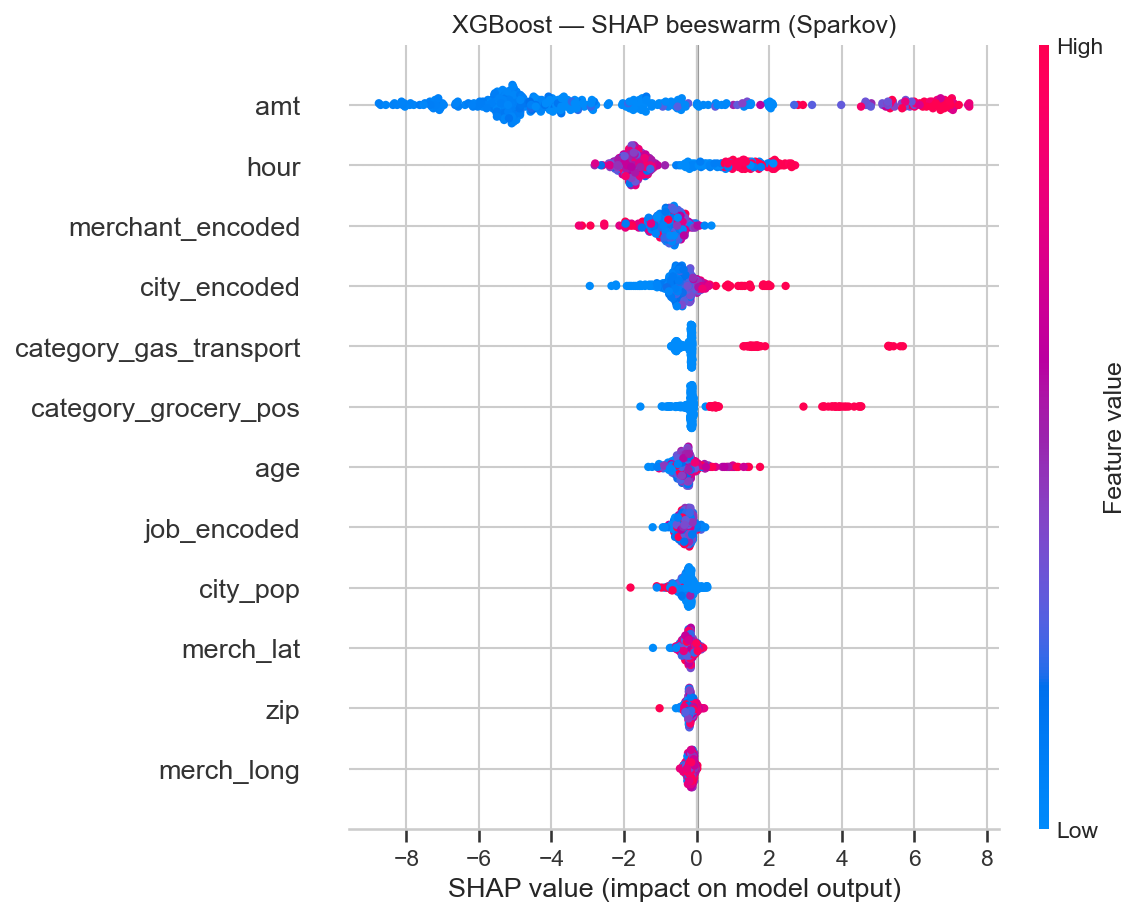
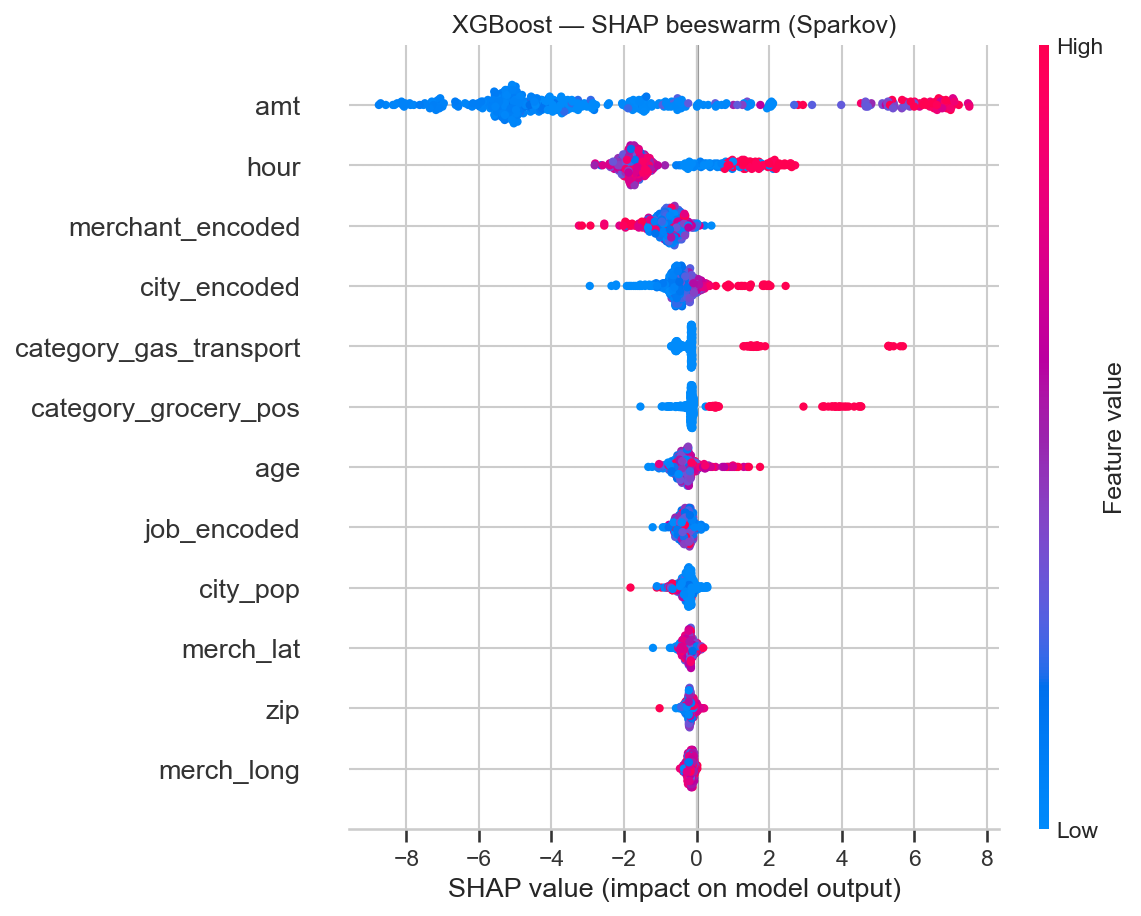
feat: use DeepExplainer for ANN SHAP instead of KernelExplainer
Measured on a trained ANN (250 eval rows x 30 features): Kernel is
~5.6x slower and non-deterministic -- two runs on the same model agree
only at Spearman 0.85, which would artificially depress the ANN's CIES
score since CIES measures exactly rank dispersion. DeepExplainer is
deterministic, exactly additive on the logit (error 0.0), agrees with
Kernel at 0.87 (about Kernel's own self-agreement), and explains
log-odds like LR/XGBoost.

_compute_shap_deep previously never squeezed shap>=0.4x's
(n, features, 1) output and would have broken the rank/metric code
like the RandomForest 3D case; now normalized to 2D, forced to eval
mode, and falls back to KernelExplainer if DeepExplainer errors.
Regression test runs in a subprocess (torch + xgboost in one process
risks the documented OpenMP segfault).

diff --git a/reports/pipeline_diagram.html b/reports/pipeline_diagram.html
@@ -140,7 +140,7 @@
 
       <!-- SHAP -->
       <rect x="180" y="512" width="820" height="64" rx="10" fill="var(--shared-bg)" stroke="var(--shared-line)" stroke-width="2"/>
-      <text x="590" y="537" text-anchor="middle" font-size="12.5" font-weight="600" fill="var(--fg)">SHAP — Linear (LR) · Tree (RF, XGBoost, CatBoost) · Kernel (ANN, xấp xỉ)</text>
+      <text x="590" y="537" text-anchor="middle" font-size="12.5" font-weight="600" fill="var(--fg)">SHAP — Linear (LR) · Tree (RF, XGBoost, CatBoost) · Deep (ANN, xấp xỉ, tất định)</text>
       <text x="590" y="556" text-anchor="middle" font-size="10.5" fill="var(--warn)">Tree: đã fix bug — RandomForest trả ndarray 3D (n,f,class) trên shap 0.52, không phải list</text>
 
       <!-- diverge -->

diff --git a/src/explainability/shap_utils.py b/src/explainability/shap_utils.py
@@ -6,7 +6,7 @@ Mapping explainer bắt buộc theo model (spec mục 6.1):
     - Random Forest       → shap.TreeExplainer (exact)
     - XGBoost             → shap.TreeExplainer (exact)
     - CatBoost            → shap.TreeExplainer (exact)
-    - ANN                 → shap.KernelExplainer hoặc shap.DeepExplainer (xấp xỉ)
+    - ANN                 → shap.DeepExplainer (xấp xỉ, tất định); KernelExplainer làm fallback
 
 ANN dùng explainer xấp xỉ — ghi log riêng, không so sánh thô với TreeSHAP.
 """
@@ -25,7 +25,11 @@ EXPLAINER_MAP = {
     "random_forest": "tree",
     "xgboost": "tree",
     "catboost": "tree",
-    "ann": "kernel",  # Hoặc "deep" — mặc định kernel cho safety
+    # DeepExplainer thay KernelExplainer: đo trên ANN thật, Kernel chạy lặp 2 lần cùng
+    # model chỉ khớp nhau Spearman ~0.85 (nhiễu lấy mẫu riêng — sẽ làm điểm CIES của ANN
+    # thấp GIẢ TẠO vì CIES đo đúng độ dao động thứ hạng), chậm hơn ~5x, còn Deep
+    # tất định, cộng dồn đúng (sai số 0) và cùng đơn vị log-odds với LR/XGBoost.
+    "ann": "deep",
 }
 
 
@@ -180,25 +184,38 @@ def _compute_shap_deep(
     X_eval: np.ndarray,
     X_background: Optional[np.ndarray],
 ) -> np.ndarray:
-    """SHAP cho ANN — DeepExplainer (thay thế cho KernelExplainer nếu cần)."""
+    """
+    SHAP cho ANN — DeepExplainer (xấp xỉ dựa trên DeepLIFT, tất định).
+
+    Giải thích logit (đầu ra trước sigmoid) — cùng thang log-odds với LR/XGBoost.
+    Nếu DeepExplainer lỗi (vd. version shap/torch không hỗ trợ 1 layer), tự lùi về
+    KernelExplainer và ghi log cảnh báo thay vì làm hỏng cả run CIES.
+    """
     import torch
 
-    if isinstance(model, dict) and "model" in model:
-        ann = model["model"]
-        device = model.get("device", torch.device("cpu"))
-    else:
+    if not (isinstance(model, dict) and "model" in model):
         raise ValueError("ANN model phải là dict từ build_model()")
+    ann = model["model"]
+    device = model.get("device", torch.device("cpu"))
+    ann.eval()  # BatchNorm/Dropout phải ở chế độ eval, nếu không SHAP không tất định
 
     if X_background is None:
         X_background = X_eval[:100]
 
-    X_bg_tensor = torch.FloatTensor(X_background).to(device)
-    X_eval_tensor = torch.FloatTensor(X_eval).to(device)
+    try:
+        X_bg_tensor = torch.FloatTensor(np.asarray(X_background)).to(device)
+        X_eval_tensor = torch.FloatTensor(np.asarray(X_eval)).to(device)
+        explainer = shap.DeepExplainer(ann, X_bg_tensor)
+        shap_values = explainer.shap_values(X_eval_tensor)
+    except Exception as e:  # noqa: BLE001
+        logger.warning(f"DeepExplainer lỗi ({type(e).__name__}: {e}) — lùi về KernelExplainer.")
+        return _compute_shap_kernel(model, X_eval, X_background)
 
-    explainer = shap.DeepExplainer(ann, X_bg_tensor)
-    shap_values = explainer.shap_values(X_eval_tensor)
-
+    # shap>=0.4x trả ndarray (n_samples, n_features, n_outputs=1) thay vì list;
+    # bản cũ trả list [array]. Luôn quy về (n_samples, n_features).
     if isinstance(shap_values, list):
         shap_values = shap_values[0]
-
-    return np.array(shap_values)
+    shap_values = np.asarray(shap_values)
+    if shap_values.ndim == 3:
+        shap_values = shap_values[:, :, 0]
+    return shap_values

diff --git a/tests/test_pipeline.py b/tests/test_pipeline.py
@@ -193,6 +193,33 @@ def test_cies_rejects_constant_model_runs(monkeypatch):
     assert all(r["status"] == "failed" for r in result["run_logs"])
 
 
+def test_ann_shap_uses_deep_explainer_2d_and_deterministic():
+    """
+    ANN dùng DeepExplainer: phải trả shape (n, f) — shap>=0.4x trả (n, f, 1) — và tất
+    định (KernelExplainer tự lệch chính nó ~0.85 Spearman, làm CIES của ANN thấp giả).
+    Chạy trong subprocess riêng: torch + xgboost (đã nạp bởi test khác) cùng 1 process
+    có thể segfault do xung đột OpenMP (xem src/utils/isolation.py).
+    """
+    import subprocess, textwrap
+    code = textwrap.dedent(f"""
+        import sys; sys.path.insert(0, {str(Path(__file__).resolve().parent.parent)!r})
+        import numpy as np
+        from src.models.train import build_model, train_model
+        from src.explainability.shap_utils import compute_shap, EXPLAINER_MAP
+        assert EXPLAINER_MAP["ann"] == "deep", EXPLAINER_MAP["ann"]
+        rng = np.random.RandomState(0)
+        X = rng.randn(400, 6); y = (X[:, 0] + 0.5 * X[:, 1] > 1).astype(int)
+        m = train_model(build_model("ann", input_dim=6, params={{"epochs": 3, "batch_size": 64}}), X, y, model_name="ann")
+        a = compute_shap(m, "ann", X[:20], X_background=X[:50])
+        b = compute_shap(m, "ann", X[:20], X_background=X[:50])
+        assert a.shape == (20, 6), a.shape
+        assert np.allclose(a, b), "DeepExplainer phải tất định"
+        print("OK")
+    """)
+    res = subprocess.run([sys.executable, "-c", code], capture_output=True, text=True, timeout=180)
+    assert res.returncode == 0 and "OK" in res.stdout, res.stdout + res.stderr
+
+
 def test_end_to_end_cies():
     print("\n--- Testing End-to-End CIES Experiment (LR + SMOTE, N_RUNS=3) ---")
     df = create_synthetic_data(500)

diff --git a/reports/pipeline_report.md b/reports/pipeline_report.md
@@ -29,7 +29,7 @@ Sơ đồ trực quan: [`pipeline_diagram.html`](pipeline_diagram.html) — mở
 | **Benchmark 25 tổ hợp** | Vòng lặp 5 model × 5 kỹ thuật, đánh giá PR-AUC (chính), F1, F2, ROC-AUC, Precision@Recall | `notebooks/03_train_models.ipynb`; `src/models/train.py::train_and_evaluate_combo`; `src/evaluation/metrics.py::evaluate_model` |
 | **SHAP — Linear** | `LinearExplainer` (exact) cho Logistic Regression | `src/explainability/shap_utils.py::_compute_shap_linear` |
 | **SHAP — Tree** | `TreeExplainer` (exact) cho Random Forest, XGBoost, CatBoost. Tự nhận diện cả 2 dạng output binary-classification của shap: `list` (API cũ) và ndarray 3 chiều `(n_samples, n_features, n_classes)` — dạng sau đã xác nhận là output thật của `RandomForestClassifier` trên `shap==0.52.0`, trước đây bị bỏ sót gây lỗi shape khi chạy CIES cho Random Forest | `src/explainability/shap_utils.py::_compute_shap_tree` |
-| **SHAP — Kernel** | `KernelExplainer` (xấp xỉ) cho ANN — log cảnh báo riêng, không so sánh thô với TreeSHAP | `src/explainability/shap_utils.py::_compute_shap_kernel` |
+| **SHAP — Deep (ANN)** | `DeepExplainer` (xấp xỉ DeepLIFT, tất định, giải thích logit) cho ANN; tự lùi về `KernelExplainer` nếu Deep lỗi. Đã đo trên ANN thật: Kernel chạy lặp 2 lần cùng model chỉ khớp nhau Spearman ~0.85 (nhiễu lấy mẫu riêng, làm điểm CIES của ANN thấp giả) và chậm hơn ~5x; Deep giống hệt qua các lần chạy, cộng dồn đúng. Vẫn là xấp xỉ — không so thô với TreeSHAP | `src/explainability/shap_utils.py::_compute_shap_deep` |
 | **CIES — ĐÃ IMPLEMENT** | Bootstrap resample train → re-encode từ đầu → xử lý mất cân bằng → train → SHAP trên eval set cố định, lặp N_RUNS lần | `src/explainability/cies.py::run_cies_experiment` |
 | **CIES — Stability metric** | Rank-weighted distance (`w_r = 1/r`) + Spearman correlation → `cies_score` | `src/explainability/cies.py::compute_stability_metric / compute_rank_weighted_distance / shap_to_ranks` |
 | **CIES — Feature-level** | Stability cấp từng feature (mean\|SHAP\|, hệ số biến thiên, rank_std) — chỉ cho Sparkov | `src/explainability/cies.py::compute_feature_level_cies` |
